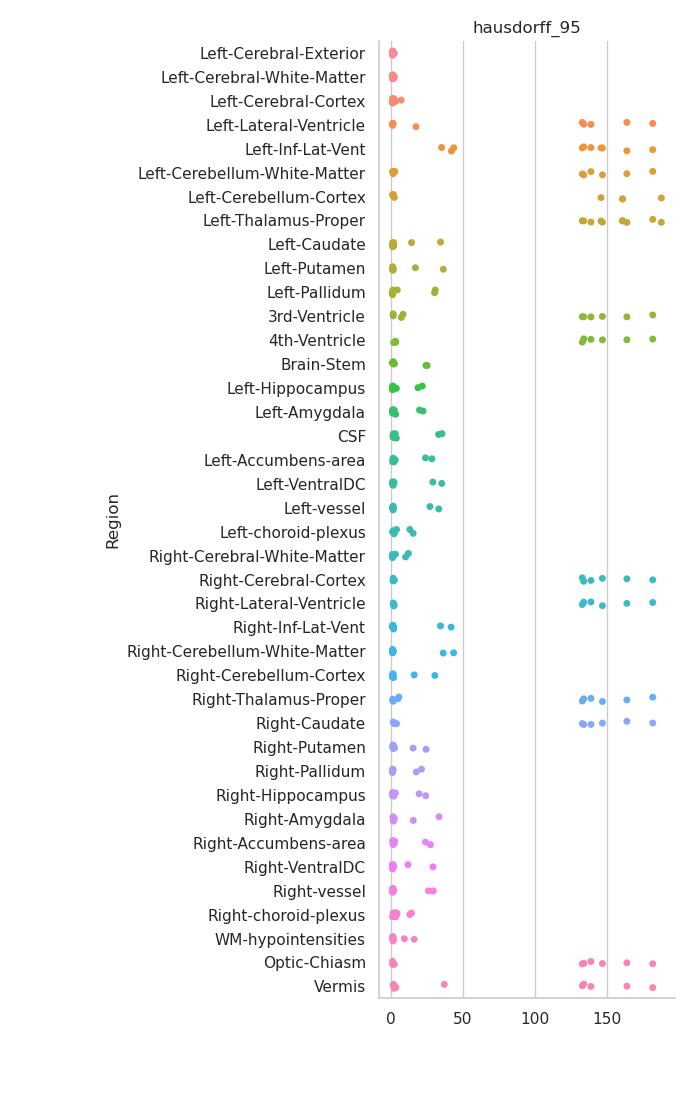
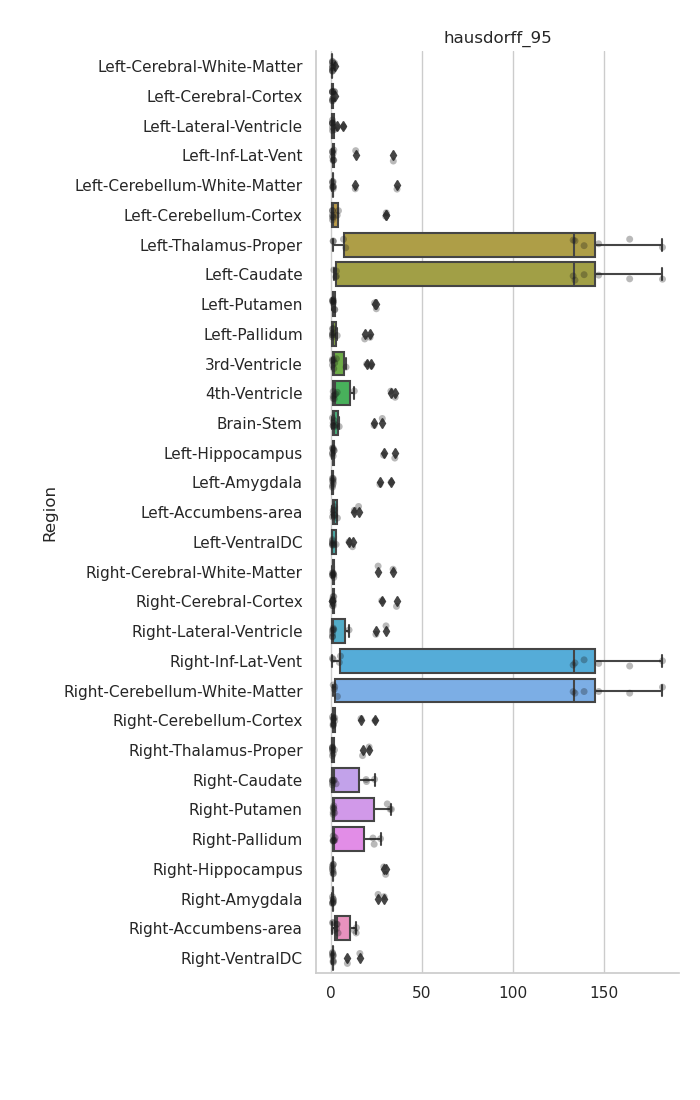
515: all measures.

diff --git a/doc/tasks/515/515-all-measures.md b/doc/tasks/515/515-all-measures.md
@@ -1,0 +1,23 @@
+515: T2-only model
+==================
+
+
+dice
+----
+![dice-boxplot](./img/catplot/dice.png)
+
+hausdorff
+---------
+![hausdorff-boxplot](img/catplot/hausdorff.png)
+
+hausdorff_95
+------------
+![hausdorff_95-boxplot](img/catplot/hausdorff_95.png)
+
+hausdorff_99
+------------
+![hausdorff_99-boxplot](img/catplot/hausdorff_99.png)
+
+mean_distance
+-------------
+![mean_distance-boxplot](img/catplot/mean_distance.png)
